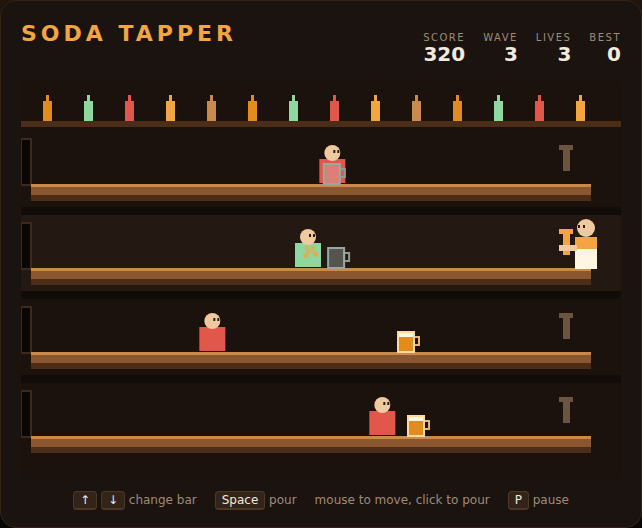
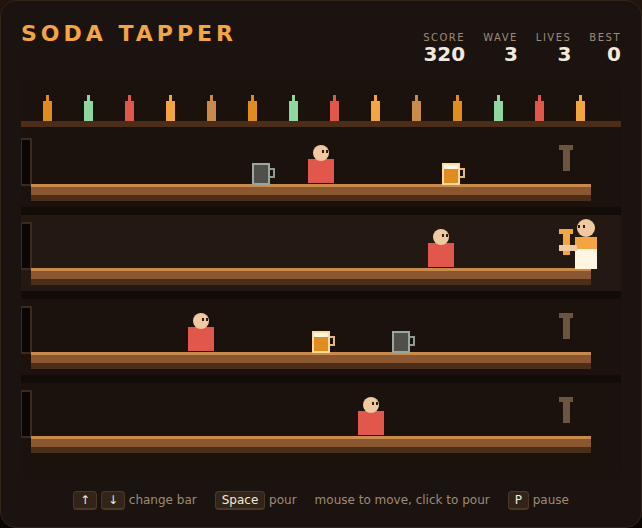
Fix two wave-termination bugs in Soda Tapper found by bot playtesting
Unit tests confirmed the rules but said nothing about whether a wave ever
ends. Scripting a bot that plays through step() at 60 Hz surfaced two
states where it doesn't:

1. Livelock with two customers on one bar. The mug is always spent on
   whichever is nearest the tap, so each customer receives only every
   other mug while both walk forward continuously. Past a certain walk
   speed the pair settles into a stable orbit — never served, never
   reaching the tap — and the wave can never end. Observed at wave 8:
   two customers oscillating between x~100 and x~380 for five minutes.
   Arrivals now take an empty bar, so every mug counts.

2. Infinite juggle across four bars. Even one-per-bar, a good enough
   player can hold four customers just short of the tap forever: every
   mug pushes somebody back, nobody is served, nobody arrives. A bot
   held wave 12 open for 745 seconds. Customers now grow impatient after
   22 seconds of a wave, speeding up without limit and marked with a "!",
   so a wave always resolves. The same bot now dies at wave 15.

Also retunes the push-back economy that made the livelock reachable —
stronger push, shorter drink, faster mugs, and a walk-speed cap so a
customer can never outrun the mug economy outright. Wave times went from
100s+ to 9-36s across the curve.

Adds impatience tests (written first, watched to fail) for 65 total.

Claude-Session: https://claude.ai/code/session_01VuYpAqBuauAHu1gpELFJCq

diff --git a/SodaTapper/game.js b/SodaTapper/game.js
@@ -25,18 +25,28 @@ const BAR_X = 540;             // x of the tap end of every bar
 // --- Customers ---
 const CUST_W = 26;
 const CUST_H = 44;
-const PUSH_BACK = 140;         // how far one mug shoves a customer back
-const DRINK_TIME = 0.5;        // seconds a customer stands still after drinking
+const PUSH_BACK = 190;         // how far one mug shoves a customer back
+const DRINK_TIME = 0.35;       // seconds a customer stands still after drinking
 
 // --- Mugs ---
 const MUG_R = 8;
-const MUG_SPEED = 300;         // full mugs sliding away from the tap (px/s)
+const MUG_SPEED = 360;         // full mugs sliding away from the tap (px/s)
 const EMPTY_SPEED = 170;       // empties sliding back toward the tap (px/s)
 const POUR_COOLDOWN = 0.25;    // seconds between pours
 
 // --- Difficulty scaling (all pure functions of `wave`) ---
-const CUST_BASE = 26, CUST_STEP = 7;                        // walk speed
-const SPAWN_BASE = 3.0, SPAWN_STEP = 0.3, SPAWN_MIN = 1.0;  // seconds between arrivals
+// Walk speed ramps but is capped: a customer who outruns the mug economy makes
+// the bar unwinnable rather than hard, so late waves press with volume instead.
+const CUST_BASE = 30, CUST_STEP = 9, CUST_MAX = 140;
+const SPAWN_BASE = 3.0, SPAWN_STEP = 0.3, SPAWN_MIN = 0.8;  // seconds between arrivals
+
+// Impatience. A wave normally runs 10–25 s. A good enough player can otherwise
+// juggle four customers just short of the tap indefinitely — every mug pushes
+// somebody back, nobody is ever served, and the wave never ends. After the grace
+// period the remaining crowd gets restless and speeds up without limit, so a
+// wave always resolves one way or the other.
+const IMPATIENCE_GRACE = 22;   // seconds of a wave before the crowd gets restless
+const IMPATIENCE_RATE = 8;     // extra px/s of walk speed per second after that
 
 const CUSTOMERS_PER_WAVE = 6;  // serve this many to clear a wave
 const START_LIVES = 3;
@@ -64,7 +74,7 @@ let state, score, best, wave, lives;
 // `servedThisWave` counts happy customers (it drives the score); `resolvedThisWave`
 // counts every customer the wave is finished with — served *or* walked through to
 // the tap — so a wave can never stall on a customer who slipped past.
-let servedThisWave, resolvedThisWave, spawnedThisWave, spawnTimer, pourTimer;
+let servedThisWave, resolvedThisWave, spawnedThisWave, spawnTimer, pourTimer, waveElapsed;
 const player = { lane: 0 };
 const customers = [];   // { lane, x, drink }  — walking right, toward the tap
 const mugs = [];        // { lane, x }         — full, sliding left
@@ -77,7 +87,11 @@ const splashes = [];    // cosmetic only
 
 function laneY(i) { return LANE_TOP + i * LANE_H + LANE_H / 2; }
 
-function customerSpeed() { return CUST_BASE + (wave - 1) * CUST_STEP; }
+function impatience() { return Math.max(0, waveElapsed - IMPATIENCE_GRACE) * IMPATIENCE_RATE; }
+
+function customerSpeed() {
+    return Math.min(CUST_MAX, CUST_BASE + (wave - 1) * CUST_STEP) + impatience();
+}
 function spawnInterval() { return Math.max(SPAWN_MIN, SPAWN_BASE - (wave - 1) * SPAWN_STEP); }
 function pointsPerServe() { return SERVE_POINTS * wave; }
 function pointsPerCatch() { return CATCH_POINTS * wave; }
@@ -179,6 +193,7 @@ function completeWave() {
     mugs.length = 0;
     empties.length = 0;
     spawnTimer = spawnInterval();
+    waveElapsed = 0;
     lives = Math.min(MAX_LIVES, lives + 1);
 }
 
@@ -186,19 +201,25 @@ function completeWave() {
 // Simulation
 // ---------------------------------------------------------------------------
 
-// Picks a lane whose doorway is clear, so arrivals never stack on top of
-// a customer who is still standing by the door.
+// Picks an empty lane for the next arrival — one customer per bar at a time.
+//
+// This is deliberate, not just tidiness. Two customers sharing a bar livelock:
+// a mug is spent on whichever is nearest the tap, so each customer only gets
+// every other mug while both walk forward the whole time. Past a certain walk
+// speed the pair settles into an orbit that is never served and never reaches
+// the tap, and the wave can never end. One per bar makes every mug count, so a
+// bar the player is actively working always converges.
 function pickSpawnLane() {
     const free = [];
     for (let i = 0; i < LANE_COUNT; i++) {
-        const busy = customers.some((c) => c.lane === i && c.x < LANE_LEFT + CUST_W * 2);
-        if (!busy) free.push(i);
+        if (!customers.some((c) => c.lane === i)) free.push(i);
     }
     if (free.length === 0) return -1;
     return free[Math.floor(Math.random() * free.length)];
 }
 
 function substep(h) {
+    waveElapsed += h;
     if (pourTimer > 0) pourTimer = Math.max(0, pourTimer - h);
 
     // New arrivals.
@@ -311,6 +332,7 @@ function startGame() {
     player.lane = 0;
     spawnTimer = 1.0;
     pourTimer = 0;
+    waveElapsed = 0;
     hideOverlay();
     updateHud();
 }
@@ -434,6 +456,13 @@ function drawCustomer(c) {
     ctx.fillStyle = '#2b1d14';
     ctx.fillRect(c.x + 1, y - CUST_H / 2 + 3, 2, 3);
     ctx.fillRect(c.x + 5, y - CUST_H / 2 + 3, 2, 3);
+
+    // Once the crowd turns restless, mark it so the speed-up isn't a mystery.
+    if (impatience() > 0) {
+        ctx.fillStyle = '#ffcf5c';
+        ctx.fillRect(c.x - 1, y - CUST_H / 2 - 16, 3, 8);
+        ctx.fillRect(c.x - 1, y - CUST_H / 2 - 6, 3, 3);
+    }
 }
 
 function drawMug(x, y, full) {
@@ -601,5 +630,6 @@ resolvedThisWave = 0;
 spawnedThisWave = 0;
 spawnTimer = SPAWN_BASE;
 pourTimer = 0;
+waveElapsed = 0;
 updateHud();
 requestAnimationFrame(frame);

diff --git a/SodaTapper/tests/sodatapper.spec.js b/SodaTapper/tests/sodatapper.spec.js
@@ -391,17 +391,17 @@ test.describe('Soda Tapper', () => {
             const r = await page.evaluate(() => {
                 startGame();
                 stopSpawning();
-                spawnCustomer({ lane: 1, x: 200 });
-                spawnCustomer({ lane: 1, x: 400 });
-                spawnMug({ lane: 1, x: 440 });
+                spawnCustomer({ lane: 1, x: 120 });
+                spawnCustomer({ lane: 1, x: 460 });
+                spawnMug({ lane: 1, x: 500 });
                 for (let i = 0; i < 20; i++) step(0.016);
                 return { back: customers[0].x, front: customers[1].x };
             });
-            // Only the customer closest to the tap (the one that started at 400)
+            // Only the customer closest to the tap (the one that started at 460)
             // is pushed back; the one further down the bar keeps walking.
             expect(r.front).toBeLessThan(300);
-            expect(r.back).toBeGreaterThanOrEqual(200);
-            expect(r.back).toBeLessThan(230);
+            expect(r.back).toBeGreaterThanOrEqual(120);
+            expect(r.back).toBeLessThan(150);
         });
 
         test('a mug that slides off the end of the bar costs a life', async ({ page }) => {
@@ -546,6 +546,29 @@ test.describe('Soda Tapper', () => {
                 return { slow, fast };
             });
             expect(fast).toBeGreaterThan(slow);
+        });
+
+        test('customers get impatient when a wave drags on', async ({ page }) => {
+            const r = await page.evaluate(() => {
+                startGame();
+                stopSpawning();
+                const calm = customerSpeed();
+                for (let i = 0; i < 60 * 40; i++) step(1 / 60);
+                return { calm, impatient: customerSpeed() };
+            });
+            expect(r.impatient).toBeGreaterThan(r.calm);
+        });
+
+        test('a fresh wave calms the crowd back down', async ({ page }) => {
+            const r = await page.evaluate(() => {
+                startGame();
+                stopSpawning();
+                for (let i = 0; i < 60 * 40; i++) step(1 / 60);
+                const impatient = customerSpeed();
+                completeWave();
+                return { impatient, calmed: customerSpeed(), wave };
+            });
+            expect(r.calmed).toBeLessThan(r.impatient);
         });
 
         test('customers arrive more often in later waves', async ({ page }) => {

diff --git a/SodaTapper/DESIGN.md b/SodaTapper/DESIGN.md
@@ -24,15 +24,24 @@ no horizontal player movement.
 ### Customers
 
 - A customer enters at the door and walks right at `customerSpeed()` px/s.
-- Getting hit by a full mug pushes them back `PUSH_BACK = 140` px and freezes
-  them for `DRINK_TIME = 0.5` s while they drink.
+- Getting hit by a full mug pushes them back `PUSH_BACK = 190` px and freezes
+  them for `DRINK_TIME = 0.35` s while they drink.
 - Pushed back to the door (`x <= LANE_LEFT`) they leave happy: **served**, worth
   `10 × wave` points.
 - Reaching the tap (`x >= BAR_X`) costs a life — they got past you.
 
 A customer starting at the door needs one mug; one that has walked most of the
-bar needs four. That's the pressure curve — let someone get deep and they cost
+bar needs three. That's the pressure curve — let someone get deep and they cost
 you the whole tap for a while.
+
+**One customer per bar at a time.** This is load-bearing, not tidiness. Two
+customers sharing a bar livelock: the mug is always spent on whichever is nearest
+the tap, so each customer only receives every *other* mug while both walk forward
+the whole time. Past a certain walk speed the pair settles into a stable orbit —
+never served, never reaching the tap — and since a wave ends only when its
+customers are resolved, the wave can never end. Bot playtesting hit exactly this
+at wave 8: two customers oscillating between x≈100 and x≈380 for five minutes
+while the score ticked up from catches alone. One per bar makes every mug count.
 
 ### Mugs
 
@@ -61,6 +70,25 @@ you the whole tap for a while.
 - Clearing a wave clears the bars, awards one bonus life (capped at
   `MAX_LIVES = 5`), and speeds customers up while shortening the gap between
   arrivals.
+
+Walk speed ramps by wave but is capped at `CUST_MAX = 140` px/s. Beyond that a
+customer outruns the mug economy outright, which makes a bar unwinnable rather
+than hard.
+
+### Impatience
+
+Waves normally run 10–25 s. But a good enough player can juggle four customers
+just short of the tap forever: every mug pushes *somebody* back, so nobody is
+ever served and nobody ever reaches the tap. The wave never ends.
+
+After `IMPATIENCE_GRACE = 22` s of a single wave, the remaining crowd gets
+restless: every further second adds `IMPATIENCE_RATE = 8` px/s to their walk
+speed, uncapped, and impatient customers are drawn with a `!` over their head.
+The juggle becomes unholdable and the wave resolves — served or not. A scripted
+bot that previously held wave 12 open for 745 seconds now dies at wave 15.
+
+This is the game's termination guarantee. Without it, "the wave never ends" is a
+reachable state for a sufficiently good player.
 
 ### Lives
 
@@ -113,12 +141,22 @@ seconds without random customers wandering into the scenario.
 
 ## Testing
 
-`tests/sodatapper.spec.js` — 63 Playwright tests covering the initial state,
+`tests/sodatapper.spec.js` — 65 Playwright tests covering the initial state,
 starting, bartender movement, pouring and the tap cooldown, customer walking and
 arrival, serving and push-back, mug misses, empty catches, wave progression and
-difficulty scaling, lives and game over, scoring and the persisted best, and
-pause/restart. Written before the implementation; the wave-deadlock case above
-was found by writing its test first and watching it fail.
+difficulty scaling, impatience, lives and game over, scoring and the persisted
+best, and pause/restart. Written before the implementation; the wave-deadlock and
+impatience cases were both added test-first and watched to fail.
+
+### Playtesting
+
+Unit-level tests confirm the rules but say nothing about whether a wave *ends*.
+The livelock and the infinite-juggle were both found by scripting a bot that
+plays through `step()` at 60 Hz — prioritising empties near the tap, otherwise
+pouring at the customer nearest the tap — and watching where it got stuck. The
+current build has the bot clearing waves in 9–36 s and losing at wave 15, which
+is the shape an arcade curve should have. The bot is deliberately superhuman
+(instant lane changes, perfect information), so a human run ends much earlier.
 
 ```powershell
 npx playwright test SodaTapper/tests/
@@ -151,6 +189,16 @@ instruction:
   cascading into several.
 - **Bonus life per wave**, capped at 5 — the same shape as Kaboom's bucket bonus
   in this repo, chosen for consistency.
-- **Customers never queue two-deep at a door.** Arrivals pick a lane whose
-  doorway is clear rather than modelling a queue, which would need overlap
-  handling for no real gameplay gain.
+- **No queues: one customer per bar.** The arcade original runs queues of
+  customers per bar. Here each bar holds at most one at a time — both because it
+  is the simpler interpretation and because queues livelock under this mug
+  economy (see *Customers* above). Difficulty comes from all four bars being
+  busy at once rather than from depth on one bar.
+- **Impatience is a flat ramp**, not a per-customer patience meter. It scales
+  with how long the *wave* has run, not how long each customer has waited, which
+  needs one number instead of one per customer and produces the same pressure.
+
+Note that `spawnCustomer` still accepts any lane, so the raw spawner can place
+two customers on one bar; the one-per-bar rule lives in the arrival picker. The
+mug-collision rule (nearest the tap is hit first) is therefore still meaningful
+and still tested.

diff --git a/SodaTapper/README.md b/SodaTapper/README.md
@@ -25,9 +25,13 @@ Open `index.html` in any browser. No build step, no server.
 ## How it works
 
 Customers walk in through the doors on the left of each bar and head for your
-tap. A full mug slid down a bar shoves the nearest customer back 140 px and holds
-them there while they drink. Push someone all the way back out of the door and
-they leave happy — that's a serve.
+tap. A full mug slid down a bar shoves the nearest customer back and holds them
+there while they drink. Push someone all the way back out of the door and they
+leave happy — that's a serve. Someone who has walked most of the bar takes three
+mugs to clear.
+
+Only one customer works a bar at a time, so the pressure comes from all four
+bars going at once — not from a queue on any one of them.
 
 Every mug they drink comes back at you as an empty, so pouring is a commitment:
 you have to be standing at that bar when the empty reaches the tap.
@@ -49,14 +53,19 @@ immediately cascade.
 | Empty mug caught at the tap | 5 × wave |
 
 Six customers make a wave. Clear one and you get a bonus life (up to 5), but the
-next crowd walks in faster and more often. Your best score is kept in
-`localStorage`.
+next crowd walks in faster and more often.
+
+Don't get comfortable juggling: if a wave drags past about 22 seconds the crowd
+gets restless — impatient customers are marked with a `!` and speed up every
+second until the wave breaks one way or the other.
+
+Your best score is kept in `localStorage`.
 
 ## Development
 
 Design notes and the full mechanics breakdown are in [DESIGN.md](DESIGN.md).
 
-Run the Playwright suite (63 tests):
+Run the Playwright suite (65 tests):
 
 ```powershell
 npx playwright test SodaTapper/tests/
